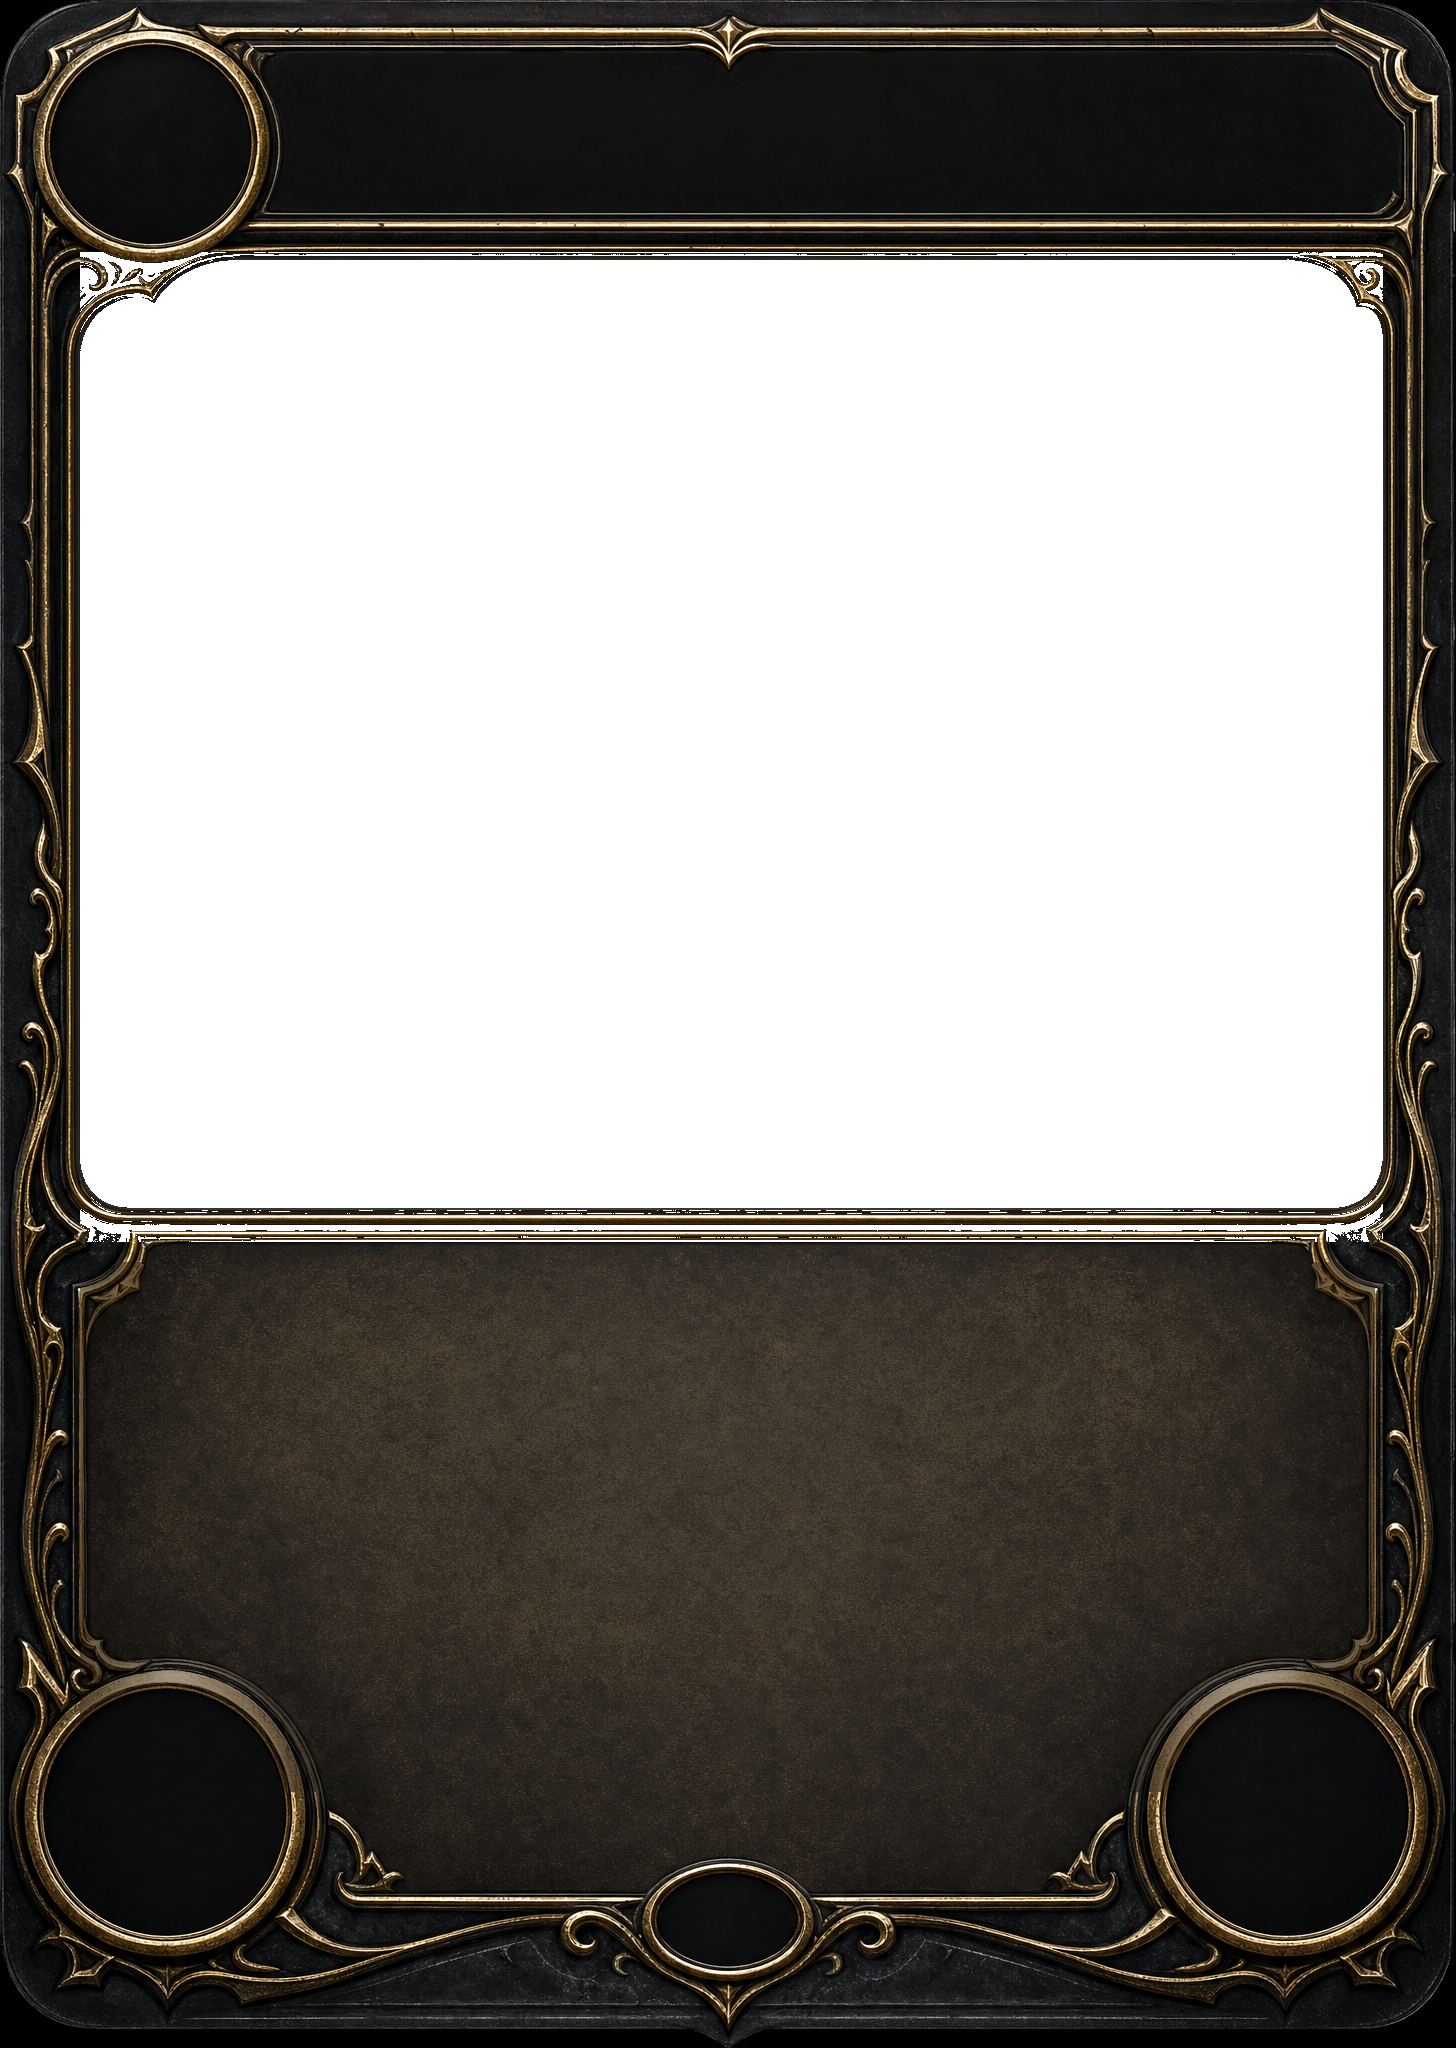
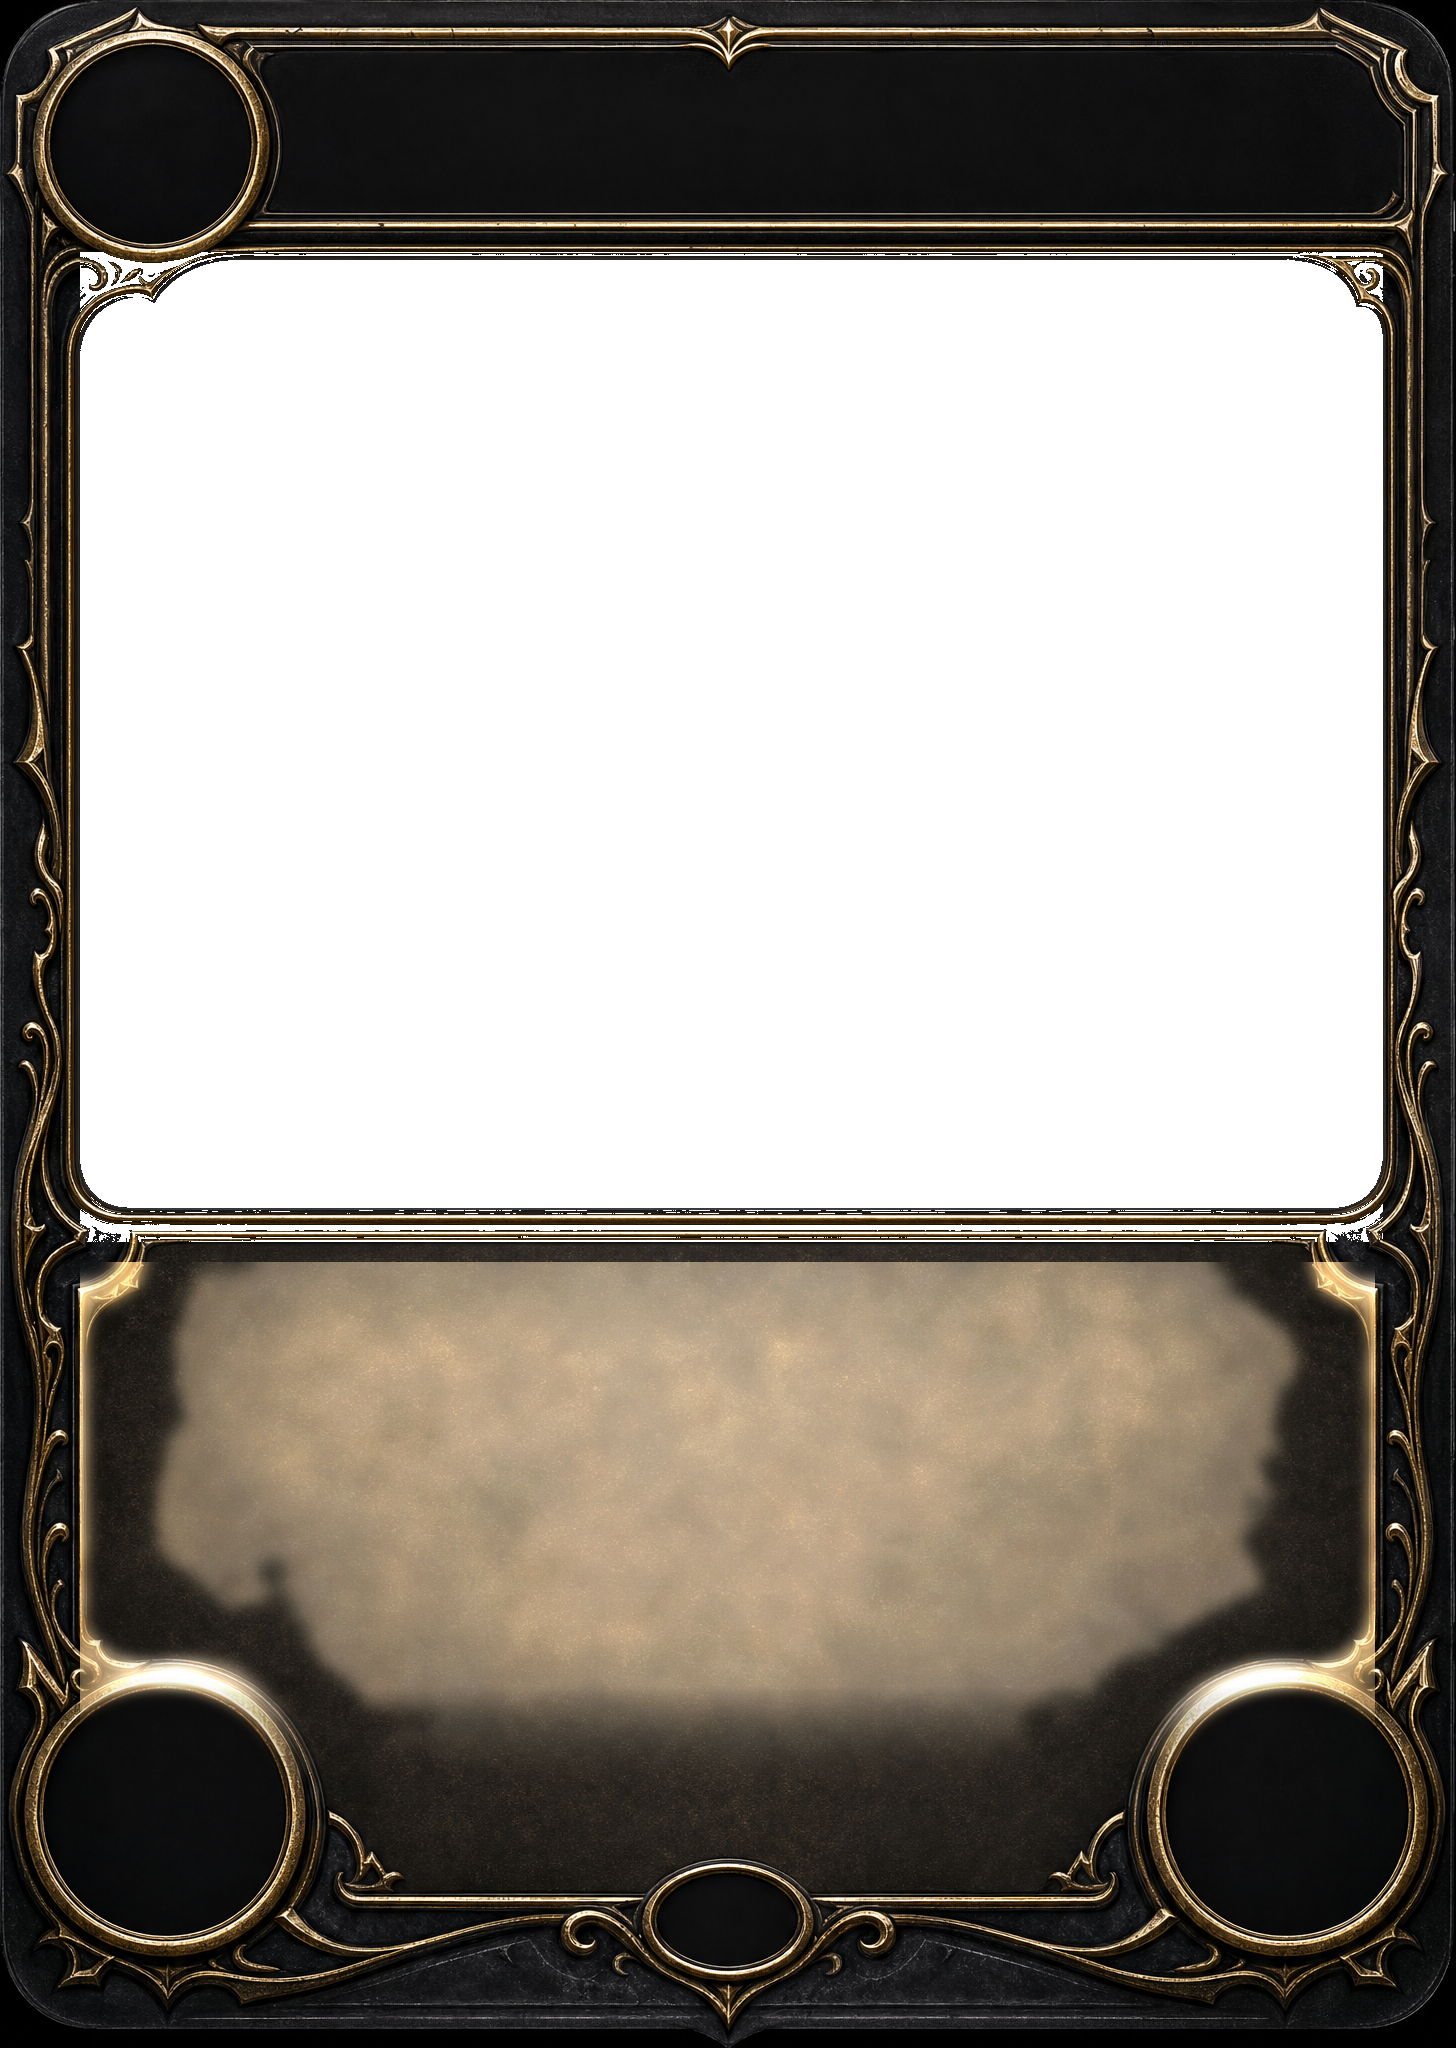
feat(art): wrap inside the bed + retint the dark rare/epic text beds to cream
Sam's read on the bold pass: wrapped rules text ran onto the frame rails (the
body rect was 0.90 CardW, wider than any bed) — now 0.74 CardW. And dark beds
kill ink contrast: he called epic; measurement showed DarkGilt darker still
(118,103,82 and 107,89,72 vs CarvedStone's 182,160,129). flatten_parchment.py
now retints both to CarvedStone's measured cream, with a blurred mask +
vertical fade so the treatment shades out naturally behind the boss row
instead of seaming.

Changed region(s): [[0.0309, 0.5938, 0.9581, 0.875]]

diff --git a/tooling/scripts/flatten_parchment.py b/tooling/scripts/flatten_parchment.py
@@ -18,7 +18,7 @@ Usage: python flatten_parchment.py [k] [brighten]
 import pathlib
 import sys
 
-from PIL import Image, ImageEnhance, ImageFilter
+from PIL import Image, ImageChops, ImageEnhance, ImageFilter
 
 REPO = pathlib.Path(r"c:\Users\User\Documents\tcg-hearthlike")
 SRC = REPO / "art-bakeoff" / "frames"
@@ -39,6 +39,13 @@ BAND_TOP_GAP = 0.010     # below the art window's bottom rail
 BAND_BOTTOM = 0.875      # above the stat bosses (dark metal is masked out anyway)
 BAND_X_INSET = 0.055     # inside the side rails
 
+# Sam 2026-07-25: DarkGilt's and IronEmber's painted beds are too dark for the
+# rules ink — retint them to CarvedStone's cream (measured, not guessed). Their
+# beds sit below LUMA_FLOOR, so the mask floor drops to keep the bed in scope
+# while true black ornament stays crisp.
+RETINT = {"rare", "epic"}
+RETINT_LUMA_FLOOR = 40
+
 for rarity, frame in FRAMES.items():
     im = Image.open(SRC / f"Frame_{frame}_cut.png").convert("RGBA")
     w, h = im.size
@@ -52,9 +59,47 @@ for rarity, frame in FRAMES.items():
     flat = Image.blend(band, band.filter(ImageFilter.GaussianBlur(BLUR_RADIUS)), K)
     if BRIGHTEN != 1.0:
         flat = ImageEnhance.Brightness(flat).enhance(BRIGHTEN)
-    mask = band.convert("L").point(lambda v: 255 if v > LUMA_FLOOR else 0)
+
+    floor = RETINT_LUMA_FLOOR if rarity in RETINT else LUMA_FLOOR
+    mask = flat.convert("L").point(lambda v, f=floor: 255 if v > f else 0)
+    # Feather: a blurred mask kills the ragged bed/ornament frontier, and a vertical
+    # fade-out over the band's last 20% hides the seam where the painted bed keeps
+    # running darker behind the boss row.
+    mask = mask.filter(ImageFilter.GaussianBlur(8))
+    bw, bh = mask.size
+    fade_start = int(bh * 0.80)
+    grad = Image.new("L", (1, bh), 255)
+    for yy in range(fade_start, bh):
+        grad.putpixel((0, yy), max(0, round(255 * (bh - yy) / (bh - fade_start))))
+    mask = ImageChops.multiply(mask, grad.resize((bw, bh)))
+
+    def bed_mean(img, m):
+        px = img.convert("RGB").load()
+        mp = m.load()
+        w2, h2 = img.size
+        tot = [0, 0, 0]; n = 0
+        for yy in range(0, h2, 4):
+            for xx in range(0, w2, 4):
+                if mp[xx, yy]:
+                    p = px[xx, yy]
+                    tot[0] += p[0]; tot[1] += p[1]; tot[2] += p[2]; n += 1
+        return tuple(t / max(n, 1) for t in tot)
+
+    if rarity == "common":
+        target = bed_mean(flat, mask)  # dict order: common is processed first
+    elif rarity in RETINT:
+        mean = bed_mean(flat, mask)
+        fr, fg, fb = (min(t / max(m, 1.0), 3.0) for t, m in zip(target, mean))
+        r, g, b, a = flat.split()
+        retinted = Image.merge("RGBA", (
+            r.point(lambda v, f=fr: min(255, round(v * f))),
+            g.point(lambda v, f=fg: min(255, round(v * f))),
+            b.point(lambda v, f=fb: min(255, round(v * f))), a))
+        flat = Image.composite(retinted, flat, mask)
+
     im.paste(Image.composite(flat, band, mask), (x0, y0))
 
     out = DST / f"frame_{rarity}.png"
     im.save(out)
-    print(f"{frame} -> {out.name}: band y {y0}-{y1}, k={K}, brighten={BRIGHTEN}")
+    print(f"{frame} -> {out.name}: band y {y0}-{y1}, k={K}, brighten={BRIGHTEN}"
+          + (f", retinted to {tuple(round(t) for t in target)}" if rarity in RETINT else ""))

diff --git a/unity/Emberfall/Assets/Scripts/Presentation/CardPresenter.cs b/unity/Emberfall/Assets/Scripts/Presentation/CardPresenter.cs
@@ -374,6 +374,9 @@ namespace Emberfall.Presentation
                 bodyLabel.fontStyle |= FontStyles.Bold;
                 bodyLabel.fontSizeMax = FrameRarityCatalog.BodyEm * H * 10f;
                 bodyLabel.fontSizeMin = FrameRarityCatalog.BodyEmFloor * H * 10f;
+                // Wrap inside the parchment bed, not the card — the creation-time rect
+                // (0.90 CardW) let wrapped lines run onto the frame rails.
+                bodyLabel.rectTransform.sizeDelta = new Vector2(0.74f * W, 0.21f * H);
                 bodyLabel.rectTransform.localPosition =
                     new Vector3(0f, (0.5f - FrameRarityCatalog.BodyCenterY) * H, z);
             }
